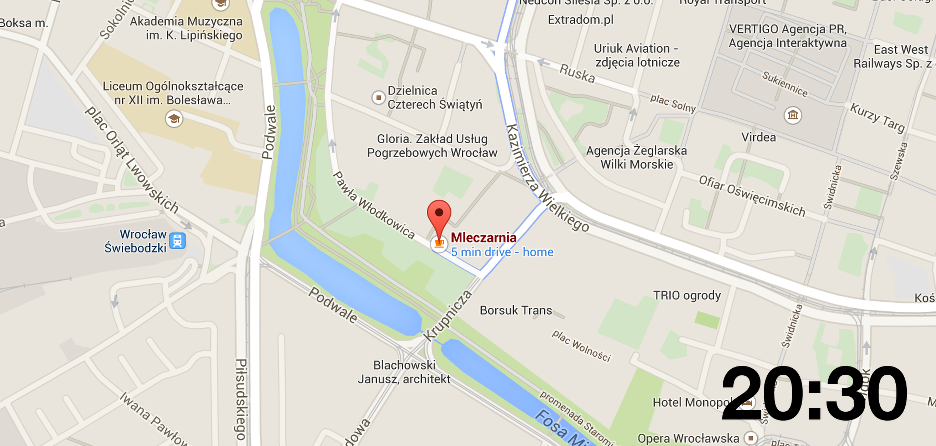
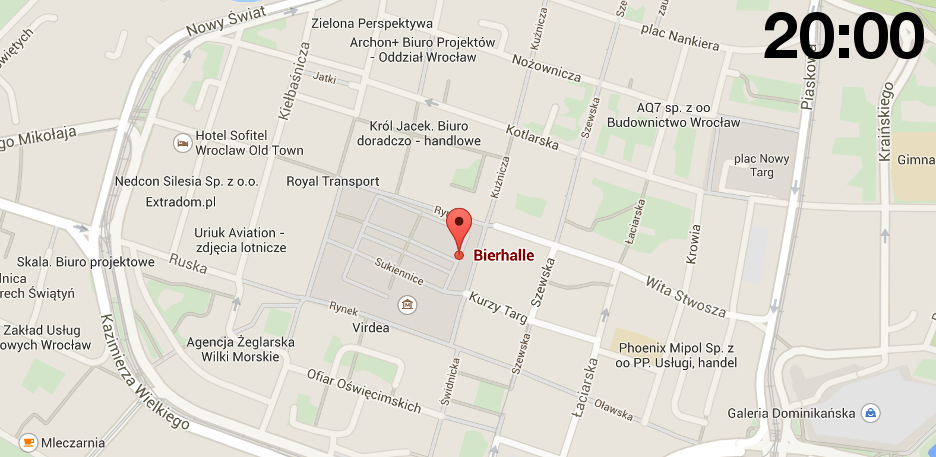
Sunday party information

diff --git a/public/index.html b/public/index.html
@@ -53,6 +53,12 @@
 
     <section class="box special">
         <header class="major">
+             <h2>Sunday Party at Bierhalle (Rynek 24 street)</h2>
+             <section>
+                 <p><img src="images/party.png" style=""></p>
+             </section>
+        </header>
+        <header class="major">
             <h2>Speakers</h2>
         </header>
         <section class="box special features">
